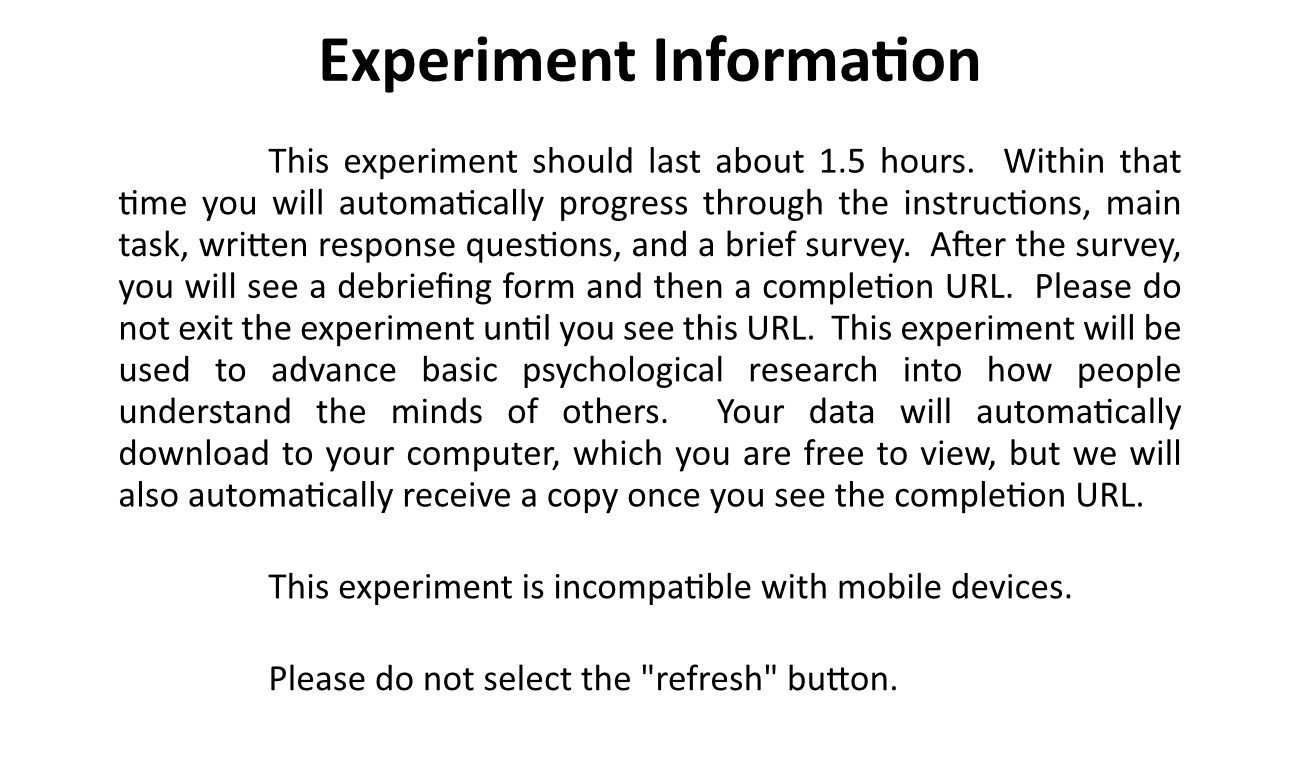
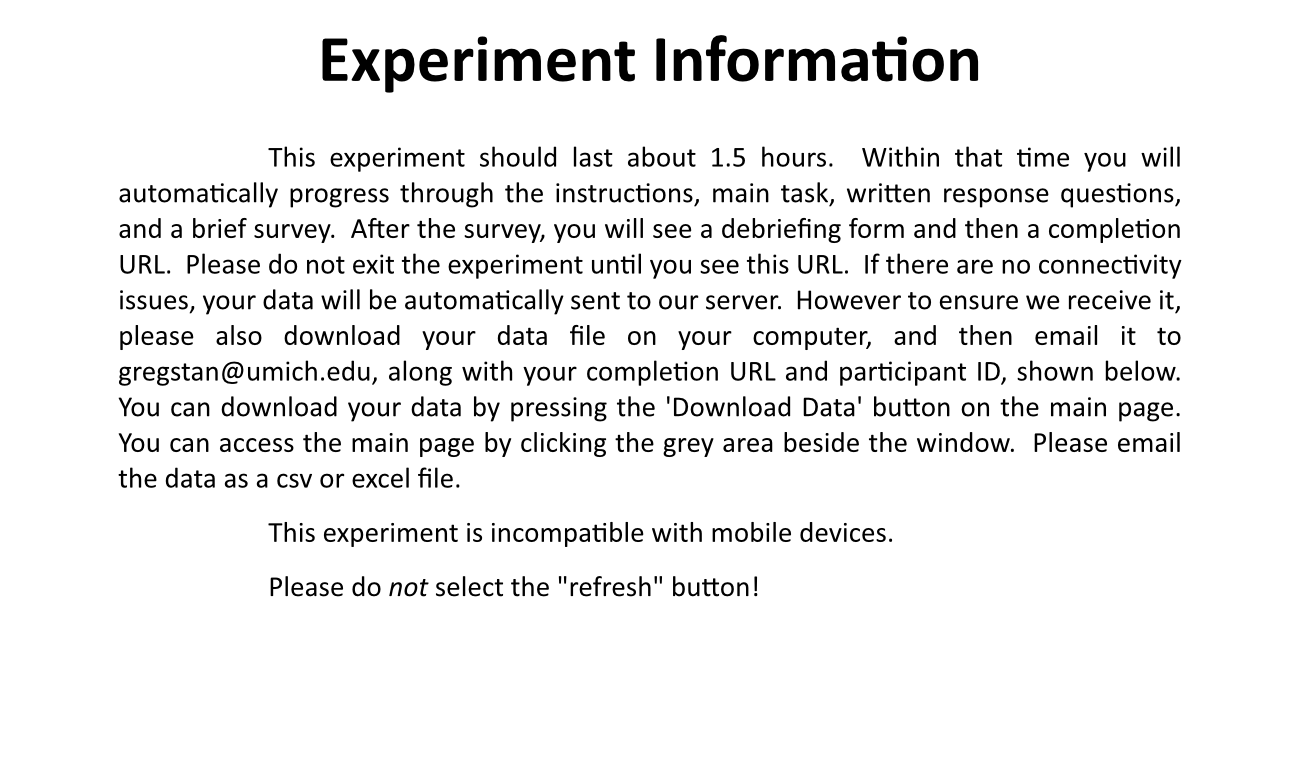
Instructed participants to email me their data file.

Changed region(s): [[0.0923, 0.1823, 0.9231, 0.7292], [0.1846, 0.7596, 0.8308, 0.79], [0.1846, 0.8811, 0.7077, 0.9115]]

diff --git a/src/components/tutorialPages/ExperInfo.vue b/src/components/tutorialPages/ExperInfo.vue
@@ -18,8 +18,12 @@
     <b-container class="align-bottom" :style="this.windowsize">
       <img
         :src="require('../../assets/Instructions/Text Only Pages/Experiment Information.png')"
-        style="width: 90%; height: auto; transform: translate(-50%, 0); margin-left: 50%;"
+        style="width: 85%; height: auto; transform: translate(-50%, 0); margin-left: 50%;"
       />
+
+      <div>
+        <h1>{{"Participant ID: " + pID}}</h1>
+      </div>
     </b-container>
     <b-button
       @click="$bvModal.hide('modal-center-ExperInfo')"
@@ -40,7 +44,7 @@
 <script>
 export default {
   name: "ExperInfo",
-  props: ["windowsize"],
+  props: ["windowsize", "pID"],
   components: {},
   data() {
     return {

diff --git a/src/components/MainPage.vue b/src/components/MainPage.vue
@@ -111,7 +111,7 @@
 
     <BotStopper @timesync="instructionStart" :windowsize="this.window_size" />
     <Consent :pID="this.participant_generated_id" :windowsize="this.window_size" />
-    <ExperInfo :windowsize="this.window_size" />
+    <ExperInfo :pID="this.participant_generated_id" :windowsize="this.window_size" />
     <ExperTutor :windowsize="this.window_size" />
     <Instr01Intro :windowsize="this.window_size" />
     <Instr02Desire :windowsize="this.window_size" />
